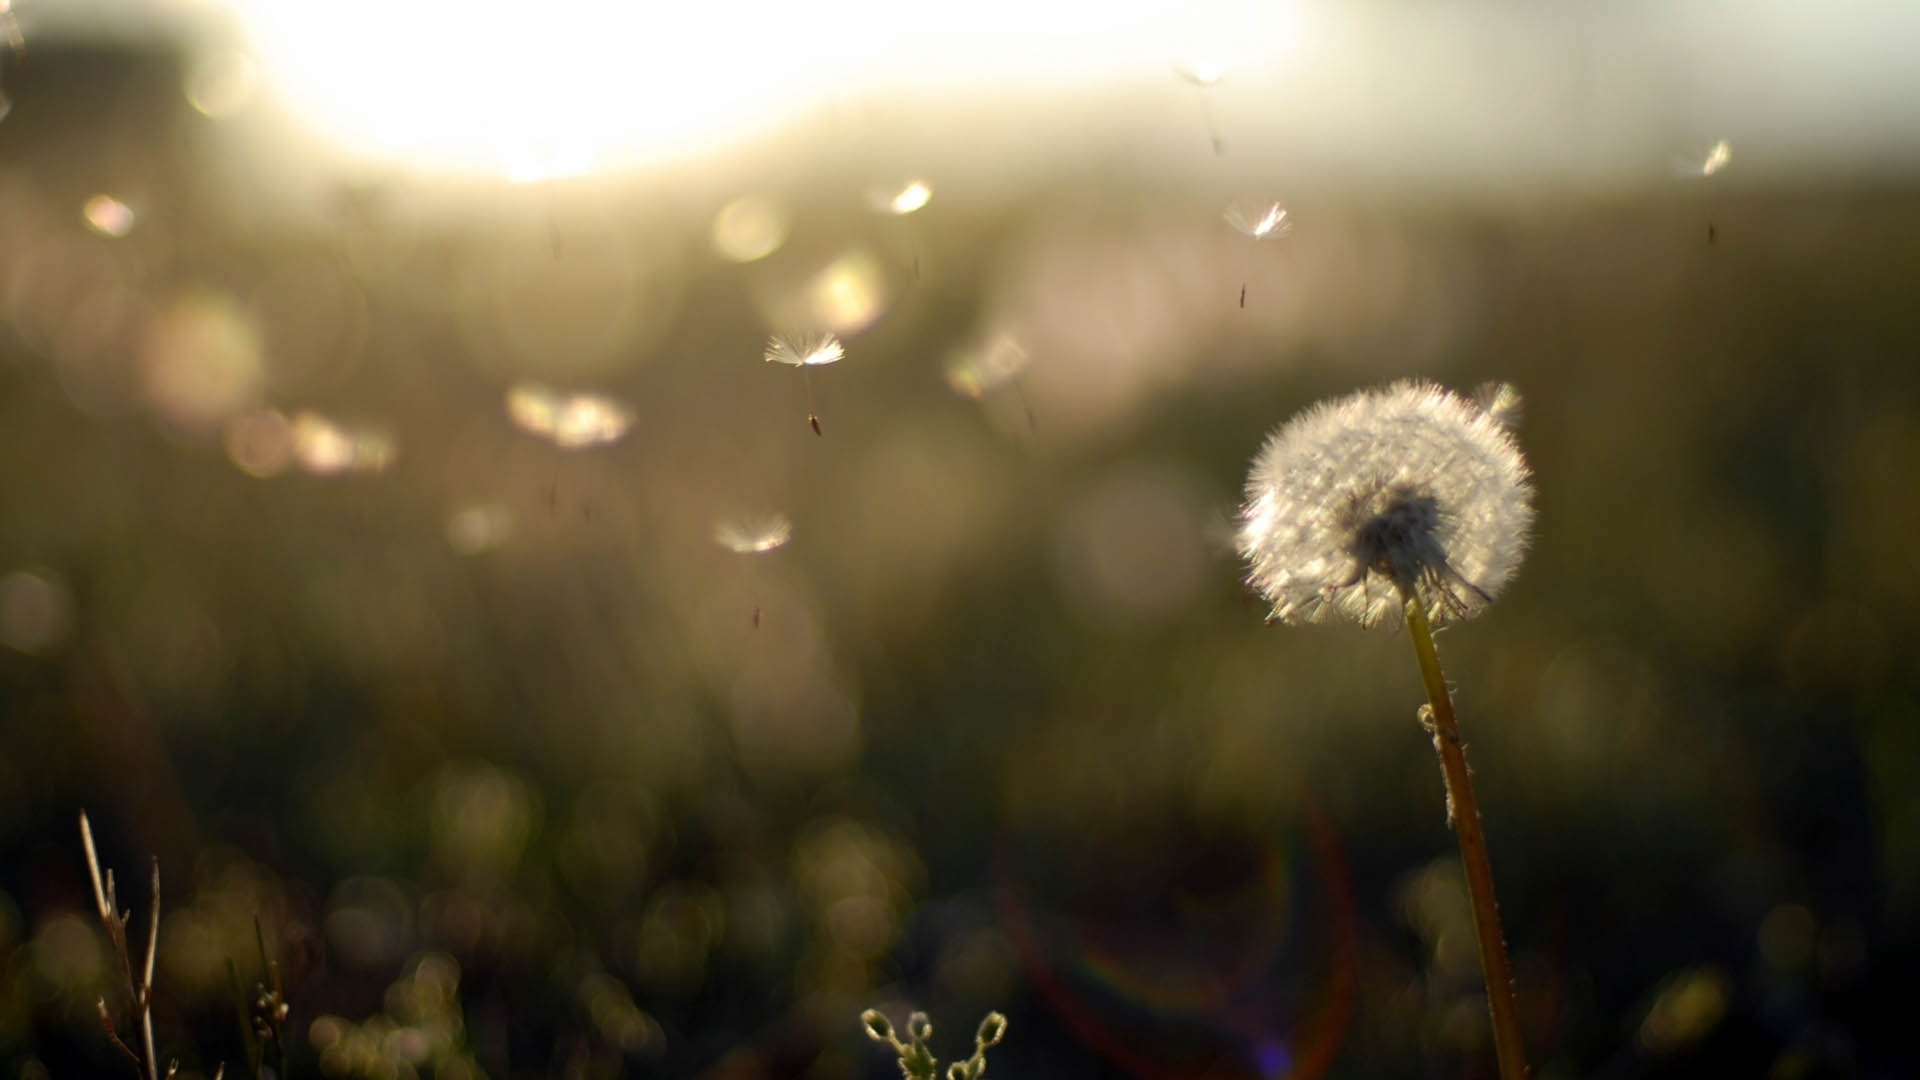
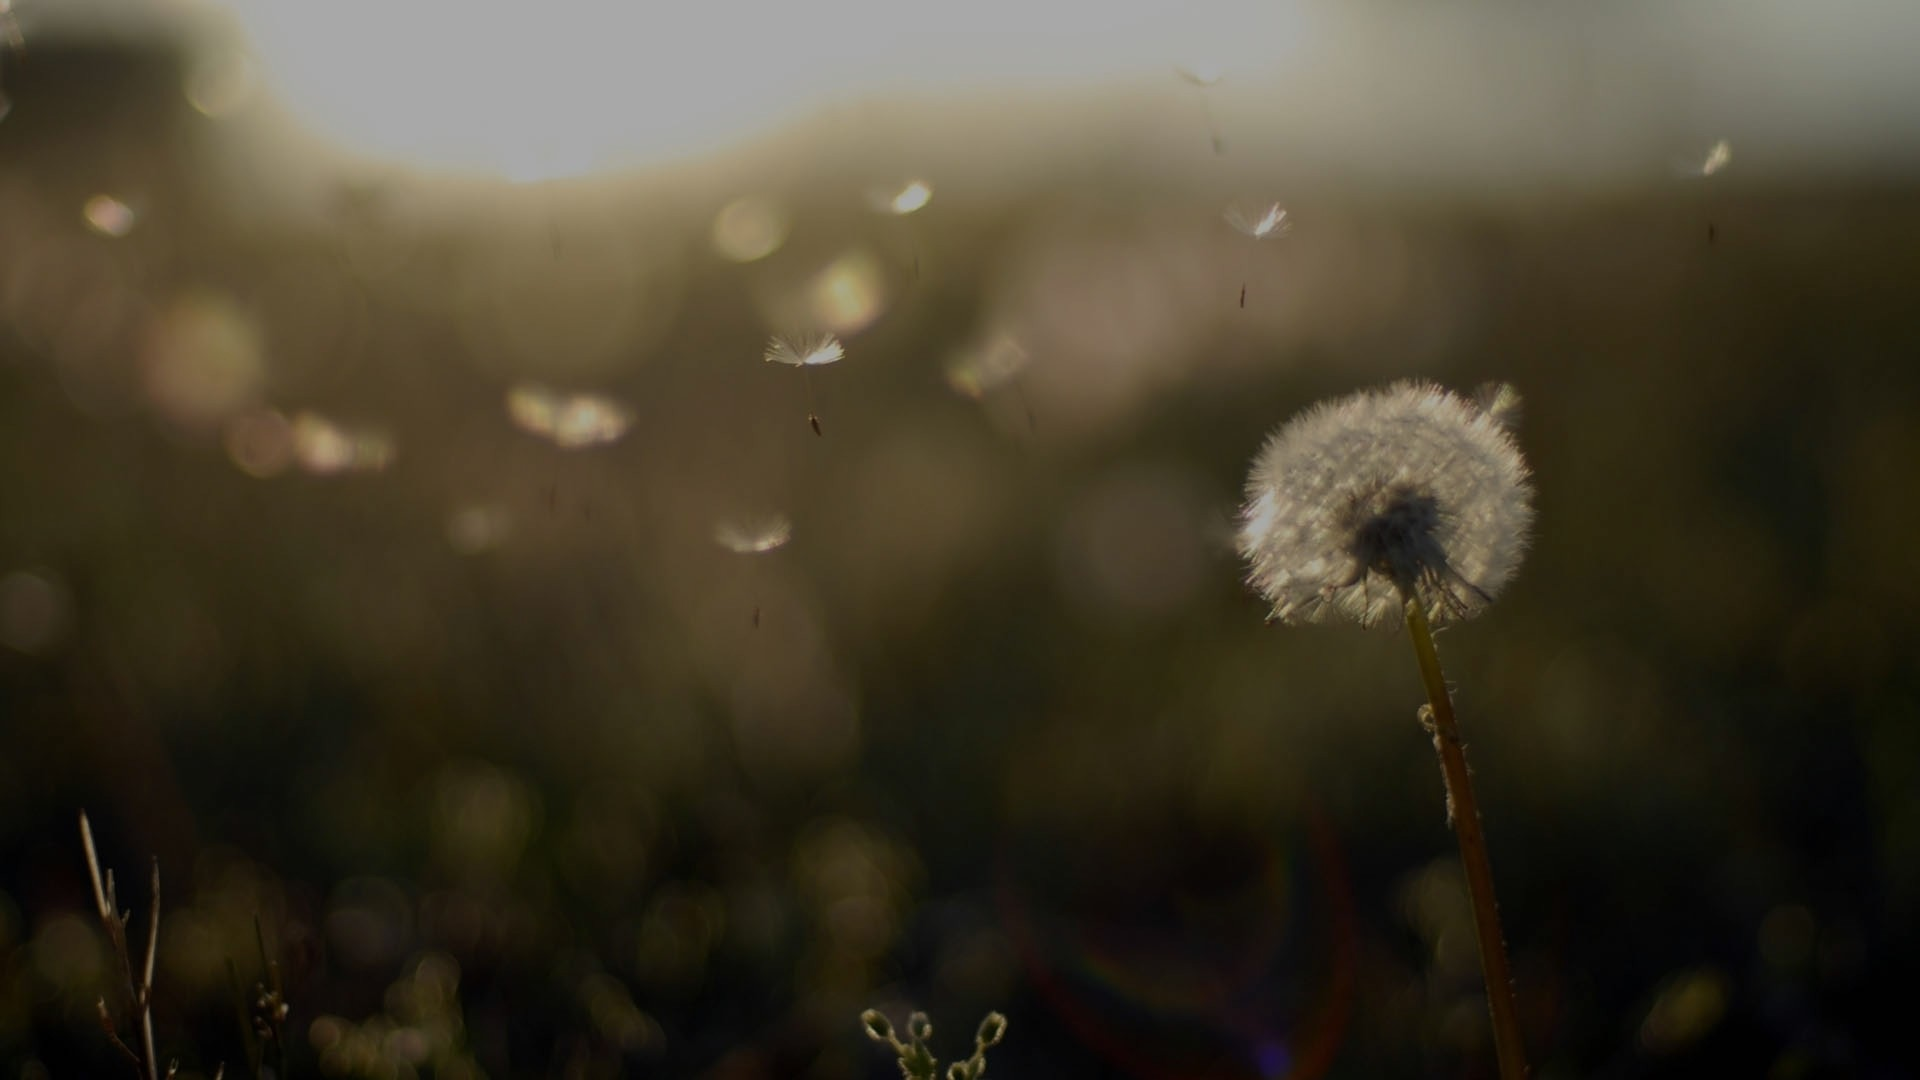
Login font

diff --git a/src/app/vues/Login.js b/src/app/vues/Login.js
@@ -75,16 +75,18 @@ export default class Login extends React.Component{
 		<div id="page-login">
 			
 			<div id="login">
-
+			
 				<div className="background_img" id="background-x"style={divStyle}>	
 					<img src={bottomArrow} id="arrow" className="arrow" alt="Mountain View"/> 
 				</div>
+				<div className="overlay"></div>
 				<span className="artist"><p>by {this.state.artist}</p></span>
 				<LoginBox/>
 				
 			</div>
 			
 			<div id="page-bottom">
+				
 				<WhatIsIt/> 
 			</div>
 		

diff --git a/src/app/components/LoginBox.js b/src/app/components/LoginBox.js
@@ -8,7 +8,9 @@ export default class LoginBox extends React.Component{
 		return(
 			<div id="login_box" >
 				<h2 className="title">The Challenger</h2>
-				<p>Vote & Share</p>
+					<div className="text-subtitle">
+							<p> <i> Share, Vote, Win ! </i> </p>
+					</div>
 				<LoginForm/>
 				<p>OR</p> 
 				<SignUpForm/>

diff --git a/src/sass/_login.scss b/src/sass/_login.scss
@@ -80,7 +80,18 @@
 #login{
 position:relative;
 }
+.title{
 
+	position:relative;
+	height:15px;
+}
+
+	
+.text-subtitle{
+	font-family: 'Montserrat Light';
+	position:relative;
+	margin-bottom:20px;
+}
 
 #what-is-it{
 position:relative;

diff --git a/src/app/components/WhatIsIt.js b/src/app/components/WhatIsIt.js
@@ -45,6 +45,7 @@ export default class Login extends React.Component{
 						anyone and anywhere in the world
 					</div>
 					
+					
 				</div>
 				
 				<span className="artist"><p>by Cheval123 </p></span>

diff --git a/src/sass/_header.scss b/src/sass/_header.scss
@@ -5,7 +5,7 @@
   
     align-items: center; 
 	text-align:middle;
-    background-color: $banniereColor;
+	background-color: $banniereColor;
 	
 }
 
